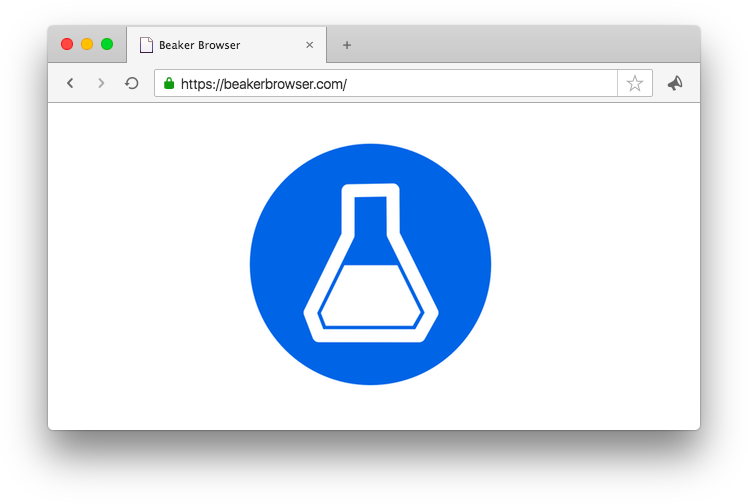
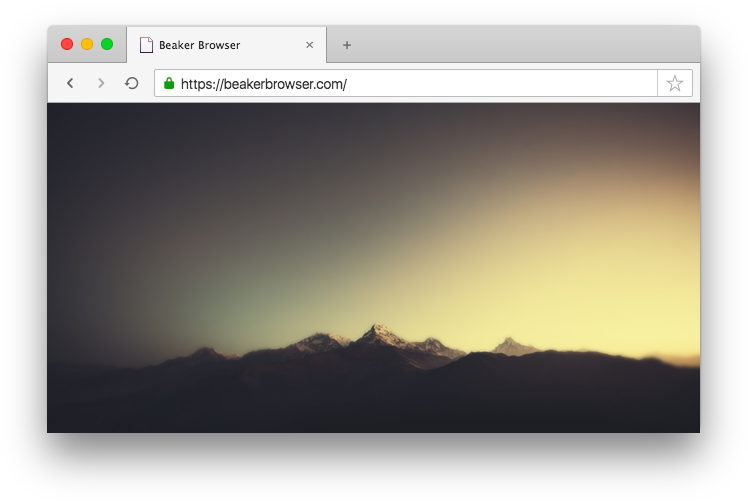
front page rewrites and restyles

diff --git a/index.html b/index.html
@@ -6,38 +6,33 @@ layout: default
 
   <div class="hero-wrapper">
     <div class="hero">
-      <h2>Enjoy <strong>Mad Science</strong></h2>
+      <h2>Escape the <strong>Cloud</strong></h2>
       <h3>With a Peer-to-Peer Web Browser</h3>
       <div class="hero-btns">
-        <a class="btn btn-secondary" href="#"><i class="fa fa-play" aria-hidden="true"></i> Watch Video</a><a class="btn btn-primary" href="#"><i class="fa fa-download" aria-hidden="true"></i> Download Beaker</a>
+        <!--<a class="btn btn-secondary" href="#"><i class="fa fa-play" aria-hidden="true"></i> Watch Video</a>--><a class="btn btn-primary" href="#"><i class="fa fa-download" aria-hidden="true"></i> Download Beaker</a>
       </div>
       <img src="/img/screenshot.png">
     </div>
   </div>
 
-  <div class="section">
-    <div class="definition">
-      <p><strong>Mad Science (n.)</strong> Anything you do, then say, "Wait was this a good idea?"</p>
-    </div>
+  <div class="section less-top-margin center">
     <div class="desc">
-      <p>Beaker is a highly opinionated and standards-noncompliant browser. It's built on top of Chrome, and adds features we think the Web needs:</p>
+      <p>Beaker is a new and experimental browser. It runs Web applications off of the cloud, so users can control their data and software.</p>
     </div>
   </div>
 
   <div class="section">
-    <h3>Hostless <strong>Websites</strong></h3>
+    <h3>Share <strong>Freely</strong></h3>
     <img class="bordered" src="/img/screenshot2.png">
     <div class="desc">
-      <p>Beaker shares sites using the <a href="http://dat-data.com">Dat P2P Network</a>, a "Git-meets-BitTorrent" technology created with a public funding from the Knight Foundation.</p>
+      <p>Host for free from your home, or push to a public peer. Beaker navigates a free and open P2P network. It's quick, free, and convenient.</p>
 
-      <p>The <code>dat</code> tool shares files directly from your device. There is no server, and anybody can contribute bandwidth by "seeding." (It's opt-in!) Don't want to host from home? <a href="https://dat.land">Push to a Public Peer</a>.</p>
-
-      <p><strong>See: <a href="TODO">Howto Create a Site</a>.</strong></p>
+      <p><strong>See: <a href="TODO">How to share a site</a>.</strong></p>
     </div>
   </div>
 
   <div class="section">
-    <h3>New <strong>APIs</strong></h3>
+    <h3>Build <strong>Serverless</strong></h3>
     <div class="apis">
       <div class="api">
         <div class="orb"><i class="fa fa-hdd-o" aria-hidden="true"></i></div>
@@ -53,9 +48,7 @@ layout: default
       </div>
     </div>
     <div class="desc">
-      <p>Beaker breaks from Web standards with the APIs you <strike>need</strike> <strong>want</strong>. It adds safe access to Files, SQLite, and Dat, so you can build novel apps without a backend.</p>
-
-      <p>Hostless Sites are completely sandboxed. They can ask for new files from the P2P network, but they can't send Ajax requests. That means they can't leak your data without permission! Also, all P2P assets are signed, versioned, and integrity-checked.</p>
+      <p>Keep your data in your control. Beaker adds safe access to Files and P2P, so you can run novel Web apps without the worry.</p>
 
       <p><strong>See: <a href="TODO">Using the APIs</a>.</strong></p>
     </div>
@@ -69,14 +62,15 @@ layout: default
     <img src="/img/screenshot3.png">
   </div>
 
-  <div class="section">
-    <h4>Is it a good idea?</h4>
-    <h4>Of course not!</h4>
-    <h3>It's <strong>Mad Science</strong>.</h3>
+  <div class="section center">
+    <h3 style="margin-bottom: 20px"><strong>Enough</strong> of the Cloud</h3>
+    <div class="desc">
+      <p>Try the browser that gives you the best of Desktop and the Web.</p>
+    </div>
     <div class="hero-btns">
       <a class="btn btn-secondary" href="/docs"><i class="fa fa-book" aria-hidden="true"></i> Read the Docs</a><a class="btn btn-primary" href="#"><i class="fa fa-download" aria-hidden="true"></i> Download the Beta</a>
     </div>
-    <div><a href="https://github.com/pfrazee/beaker">View the Source</a></div>
+    <div><a href="https://github.com/pfrazee/beaker">View on GitHub</a></div>
   </div>
 
 </div>

diff --git a/css/main.scss b/css/main.scss
@@ -52,12 +52,12 @@ blockquote { padding: 5px 2em; border-left: 1em solid #eee; }
 
 
 .hero-btns {
-  margin: 2em 0;
-  font-size: 21px;
+  margin: 30px 0;
+  font-size: 16px;
   .btn {
-    width: 280px;
+    width: 180px;
     margin: 0 5px;
-    padding: 5px 0;
+    padding: 8px 0;
   }
 }
 
@@ -105,13 +105,13 @@ blockquote { padding: 5px 2em; border-left: 1em solid #eee; }
 }
 
 .section {
-  margin: 100px 0 140px;
+  margin: 60px 0 80px;
   text-align: center;
 
   h3 {
     color: #333;
-    font-size: 62px;
-    margin: 0 200px 30px;
+    font-size: 36px;
+    margin: 0 0 30px;
     font-weight: normal;
   }
 
@@ -144,13 +144,18 @@ blockquote { padding: 5px 2em; border-left: 1em solid #eee; }
       font-weight: 400;
     }
   }
-}
 
-.definition {
-  text-align: center;
-  background: #eee;
-  padding: 10px;
-  margin: 0 150px;
+  &.less-top-margin {
+    margin-top: 0;
+    .desc p:first-child {
+      margin-top: 0;
+    }
+  }
+  &.center {
+    .desc {
+      text-align: center;
+    }
+  }
 }
 
 /*****************************************************************************/
@@ -192,7 +197,7 @@ blockquote { padding: 5px 2em; border-left: 1em solid #eee; }
 
 .hero-wrapper {
   width: 960px;
-  padding: 4em 0 2em;
+  padding: 4em 0 0;
 
   .hero {
     text-align: center;
@@ -204,24 +209,16 @@ blockquote { padding: 5px 2em; border-left: 1em solid #eee; }
     }
 
     h2 {
-      font-size: 78px;
+      font-size: 68px;
       font-weight: 100;
-      margin-bottom: 10px;
     }
 
-    h3 {    
-      padding-bottom: 10px;
-      font-size: 45px;
+    h3 {
+      font-size: 30px;
       font-weight: 100;
-      color: #555;
+      color: gray;
+      line-height: 60px;
     }
-  }
-
-  #hero-animated-bg {
-    position: absolute;
-    z-index: 1;
-    top: 0;
-    left: 0;
   }
 }
 
